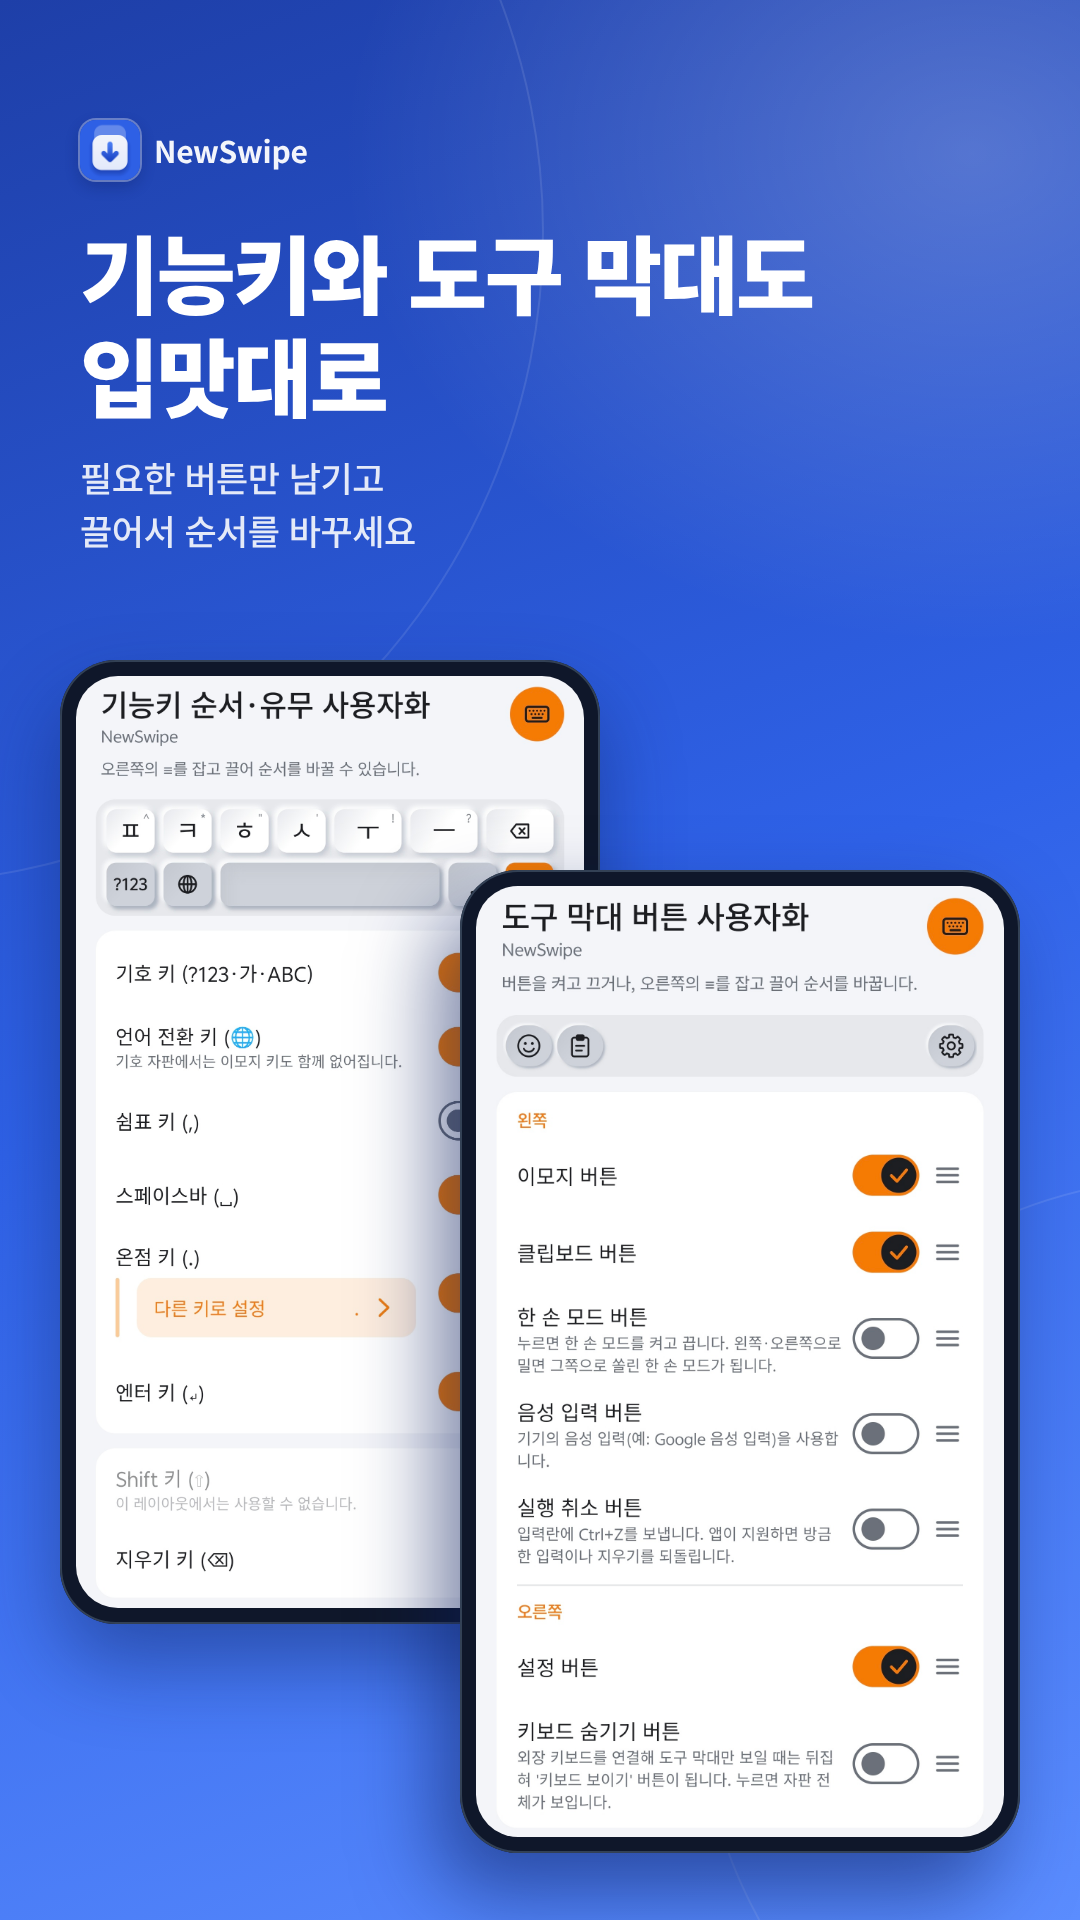
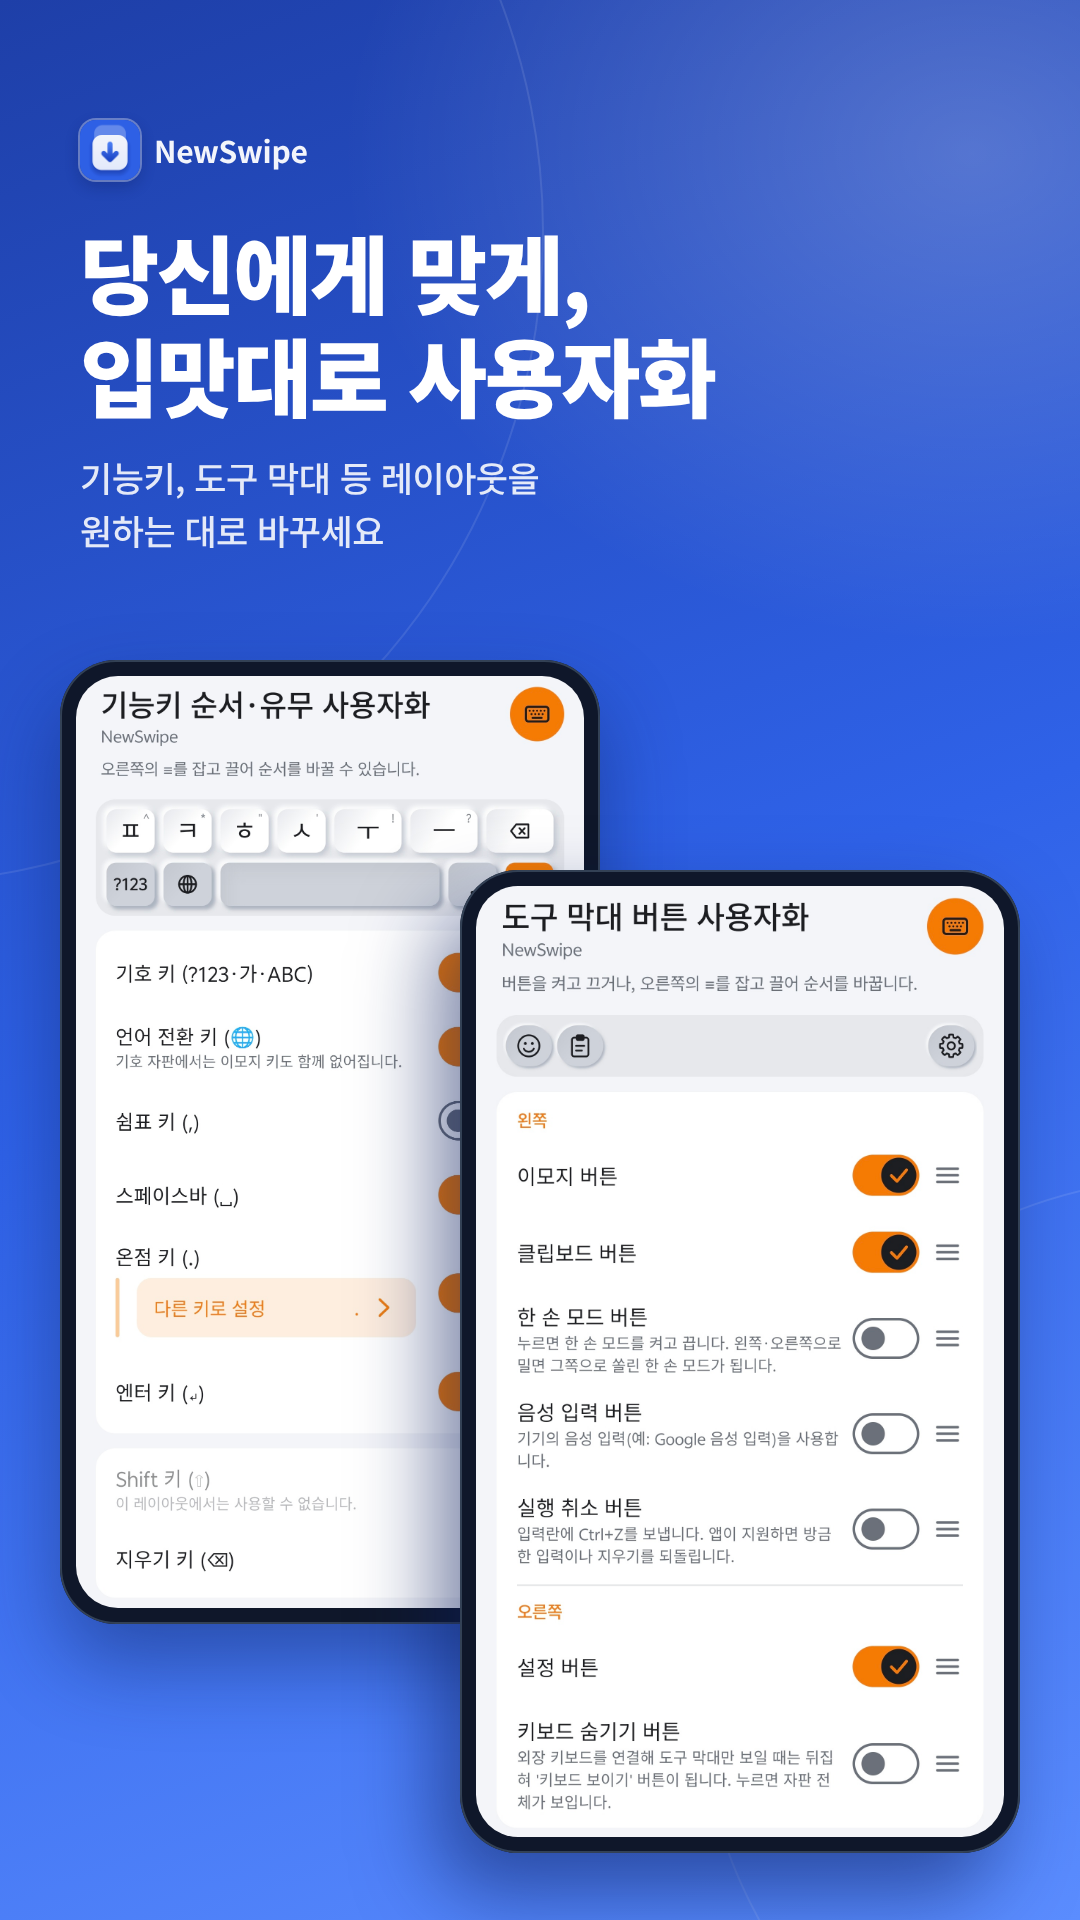
Play 스토어 스크린샷 제목과 부제를 원래 문구로 되돌리기
Claude-Session: https://claude.ai/code/session_01AwdWyHtkdh3yzUH3EHf2iE

Changed region(s): [[0.0611, 0.125, 0.7639, 0.2812]]

diff --git a/docs/play-store/screenshots/src/shots.html b/docs/play-store/screenshots/src/shots.html
@@ -103,7 +103,7 @@
   <div class="head">
     <div class="brand"><img class="ic" src="../../icon-512.png" alt="">NewSwipe</div>
     <h1>모든 키의 기능을<br>마음대로 정하세요</h1>
-    <p>키마다 위·아래·왼쪽·오른쪽으로<br>밀었을 때 할 일을 직접 고르세요</p>
+    <p>키마다 위·아래·왼쪽·오른쪽으로<br>밀었을 때 할 일을 상세하게 고르세요</p>
   </div>
   <div class="device" style="left:50px; top:640px; width:600px; border-radius:56px; padding:16px;">
     <div class="screen"><img src="img/settings.jpg" style="width:100%; display:block;"></div>
@@ -125,7 +125,7 @@
   <div class="head">
     <div class="brand"><img class="ic" src="../../icon-512.png" alt="">NewSwipe</div>
     <h1>한국어를 잘 아는<br>자동 수정과 추천</h1>
-    <p>‘헤’와 ‘해’처럼 헷갈리는 오타를 바로잡고<br>쓰려던 단어를 미리 보여 줍니다</p>
+    <p>한국어의 특수성을 고려한 강력한<br>자동 수정과 단어 추천을 체감해 보세요</p>
   </div>
 
   <div style="position:absolute; left:60px; right:60px; top:670px; height:200px; z-index:3;
@@ -166,7 +166,7 @@
   <div class="head">
     <div class="brand"><img class="ic" src="../../icon-512.png" alt="">NewSwipe</div>
     <h1>최신 이모지부터<br>클립보드까지</h1>
-    <p>Emoji 18.0 이모지를 한글로 찾고,<br>복사한 글은 고정해 두고 다시 쓰세요</p>
+    <p>Emoji 18.0, 클립보드, Predictive Back Design,<br>시스템 자동완성 등 현대적인 기능들을<br>놓치지 마세요</p>
   </div>
 
   <div class="card" style="left:100px; top:690px; width:880px;"><img src="img/emoji.jpg"></div>
@@ -178,8 +178,8 @@
 <section class="shot" id="s6">
   <div class="head">
     <div class="brand"><img class="ic" src="../../icon-512.png" alt="">NewSwipe</div>
-    <h1>기능키와 도구 막대도<br>입맛대로</h1>
-    <p>필요한 버튼만 남기고<br>끌어서 순서를 바꾸세요</p>
+    <h1>당신에게 맞게,<br>입맛대로 사용자화</h1>
+    <p>기능키, 도구 막대 등 레이아웃을<br>원하는 대로 바꾸세요</p>
   </div>
   <div class="device" style="left:60px; top:660px; width:540px; border-radius:56px; padding:16px;">
     <div class="screen" style="border-radius:42px;"><img src="img/custom-keys.jpg" style="width:100%; display:block;"></div>
